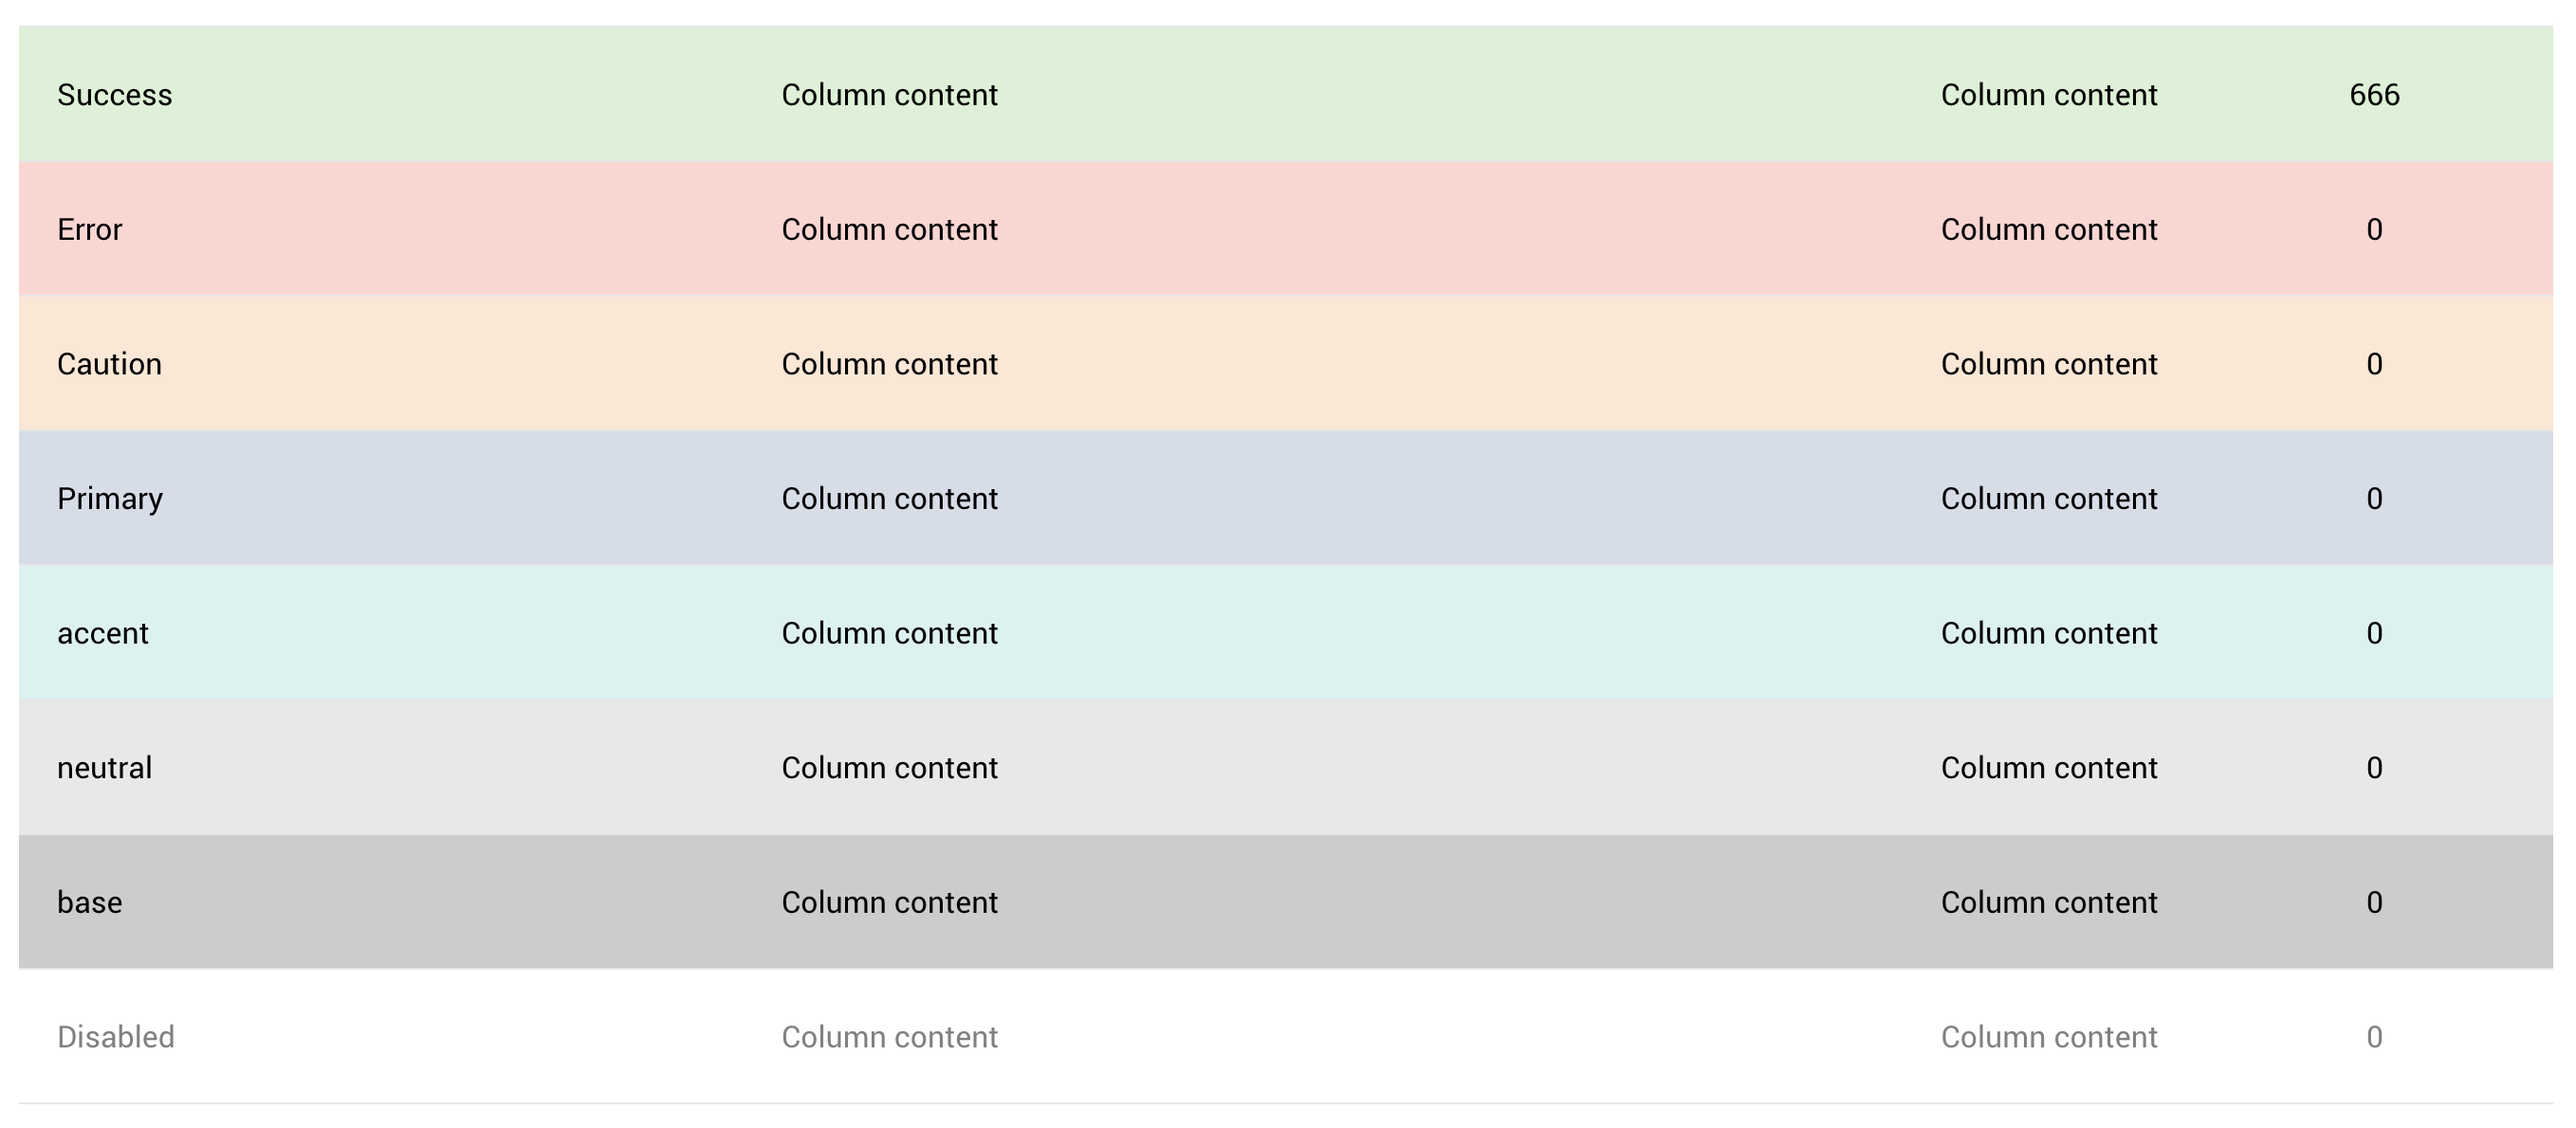
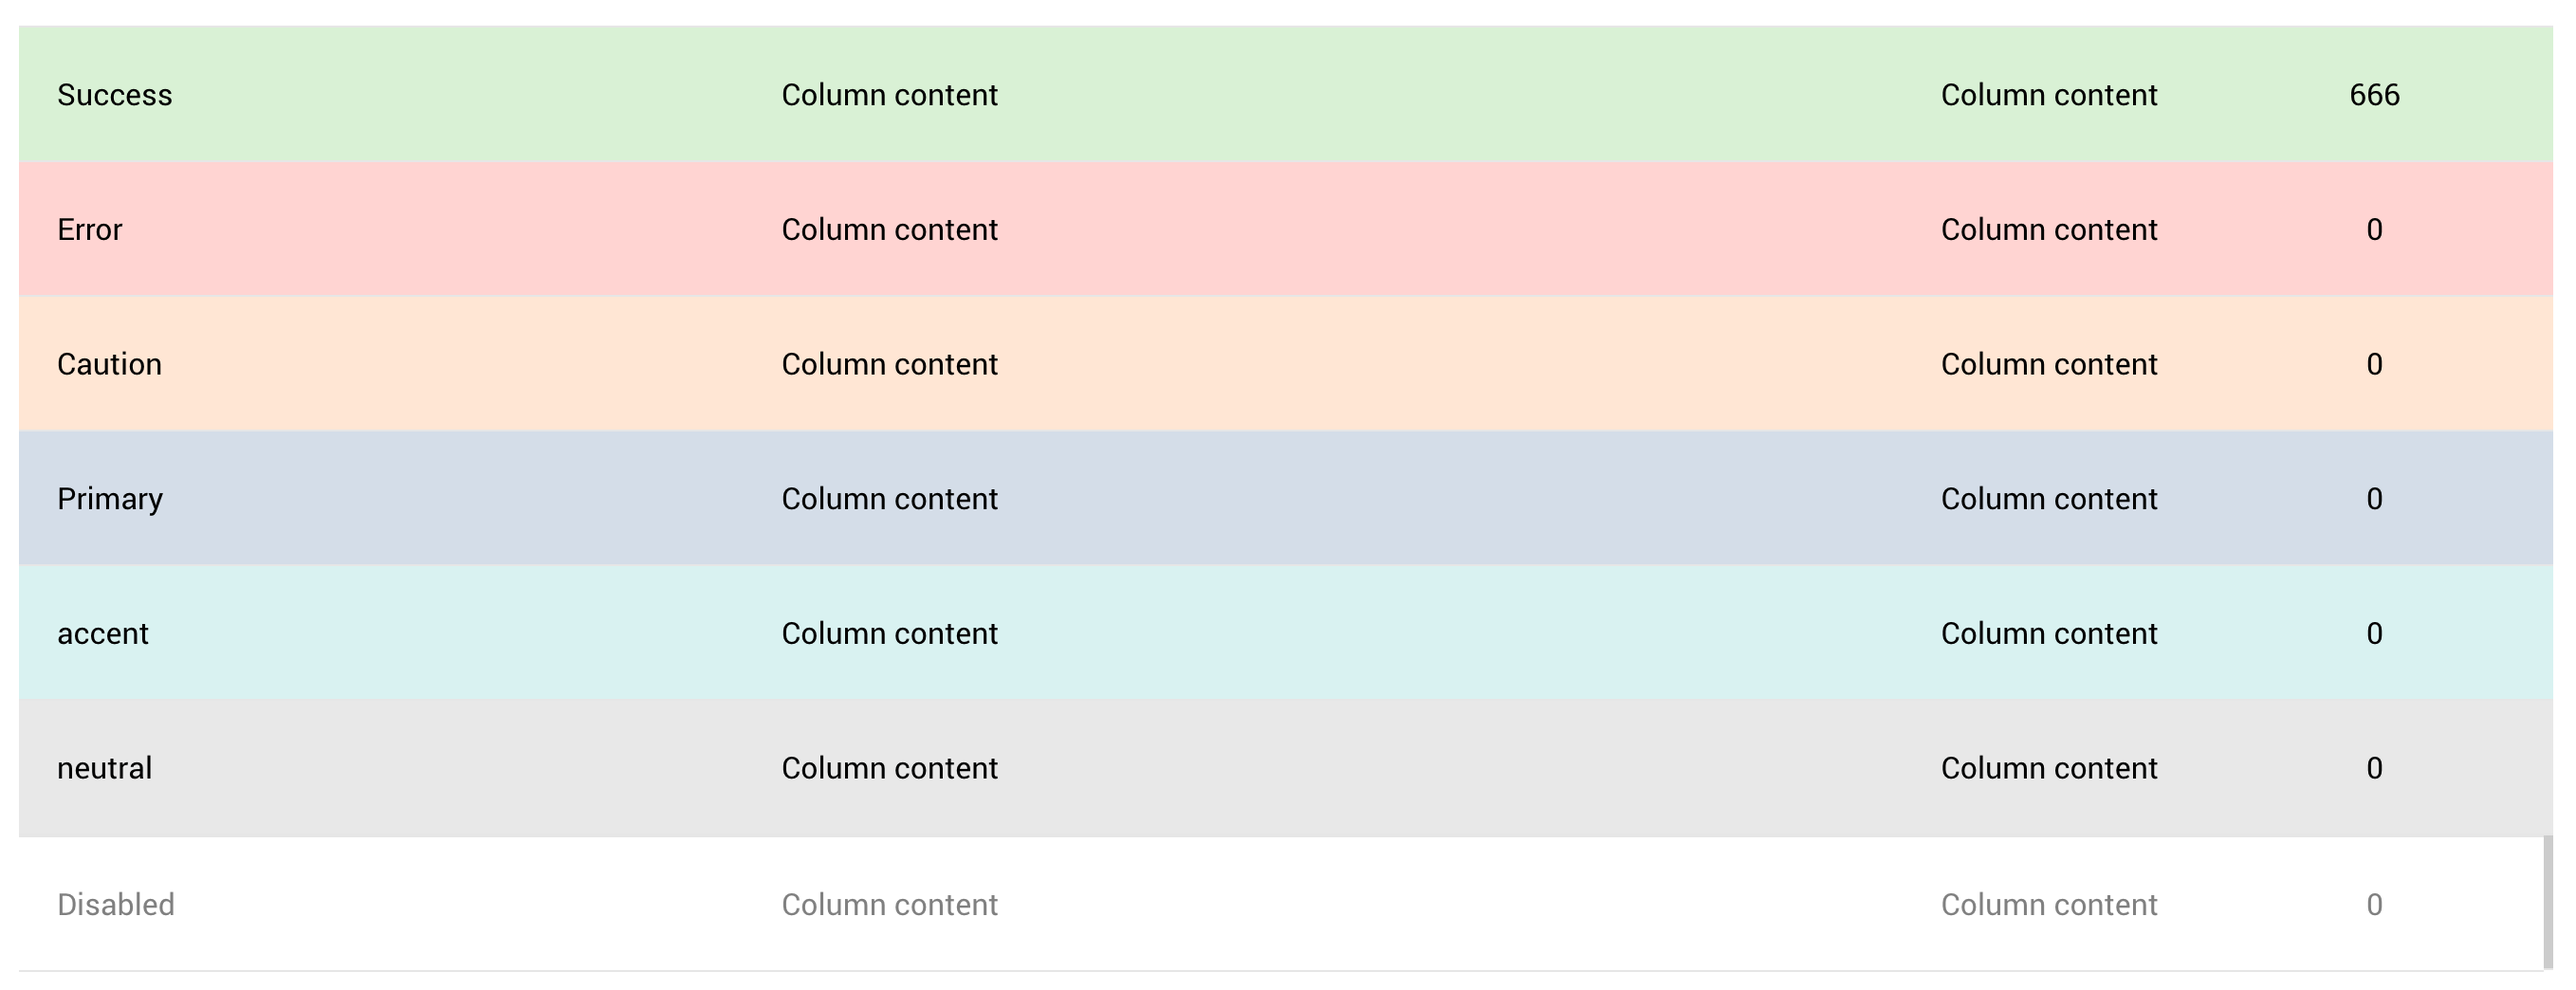
eee

diff --git a/scss/import/_internal-vars.scss b/scss/import/_internal-vars.scss
@@ -50,7 +50,7 @@ $calculated-symbol-caret-width:$symbol-caret-width;
 
 //for helpers
 $calculated-brand-color-declarations : (
-	base: $brand-color-base,
+	// base: $brand-color-base,
 	// background: $brand-color-background,
 	primary: $brand-color-primary,
 	accent: $brand-color-accent,

diff --git a/docs/sections/components/progress.md b/docs/sections/components/progress.md
@@ -13,7 +13,6 @@ A bitch that shows progress using **.progress** and  **.progress-bar**
 
 To color the progress, add `.progress-bar-[color-tag]` to `.progress-bar`
 
-*	**`.progress-bar-base`**
 *	**`.progress-bar-primary`**
 *	**`.progress-bar-accent`**
 *	**`.progress-bar-neutral`**
@@ -32,9 +31,6 @@ To color the progress, add `.progress-bar-[color-tag]` to `.progress-bar`
 	<div class="progress-bar" style="width: 10%"></div>
 </div>
 <br>
-<div class="progress">
-	<div class="progress-bar progress-bar-base" style="width: 46%"></div>
-</div>
 <br>
 <div class="progress">
 	<div class="progress-bar progress-bar-primary" style="width: 20%"></div>
@@ -87,7 +83,7 @@ the color can be customized by adding a background-color property to `.progress-
 
 ```html
 <div class="progress">
-	<div class="progress-bar progress-bar-base" style="background-color:pink;"></div>
+	<div class="progress-bar" style="background-color:pink;"></div>
 </div>
 ```
 

diff --git a/docs/sections/components/form.md b/docs/sections/components/form.md
@@ -507,7 +507,6 @@ To set the wrapper to a full width block, add **`.input-wrapper-block`**
 
 To add feedback color the `.input`, add `.input-[color-tag]`.
 
-*	**`.input-base`**
 *	**`.input-primary`**
 *	**`.input-accent`**
 *	**`.input-neutral`**
@@ -519,7 +518,6 @@ To add feedback color the `.input`, add `.input-[color-tag]`.
 
 To add feedback color the `.input-label`, add `.input-[color-tag]`.
 
-*	**`.label-base`**
 *	**`.label-primary`**
 *	**`.label-accent`**
 *	**`.label-neutral`**
@@ -533,7 +531,6 @@ To add feedback color the `.input-label`, add `.input-[color-tag]`.
 
 Adding the color class on `.input-group` styles both the `.input-label` and `.input` within it
 
-*	**`.input-wrapper-base`**
 *	**`.input-wrapper-primary`**
 *	**`.input-wrapper-accent`**
 *	**`.input-wrapper-neutral`**

diff --git a/docs/sections/scaffolding/helpers.md b/docs/sections/scaffolding/helpers.md
@@ -9,6 +9,7 @@ All influenced by [color declarations](../scaffolding/colors.md)
 #### Background
 
 *   **`.background-base` (Not to be confused with theme-color)**
+*   **`.background-background` (Not to be confused with theme-background)**
 *   **`.background-primary`**
 *   **`.background-accent`**
 *   **`.background-neutral`**
@@ -40,6 +41,7 @@ This will add gradient colors. By default, the gradient will be at angle 0deg, a
 #### Color
 
 *   **`.color-base` (Not to be confused with theme-color)**
+*   **`.color-background` (Not to be confused with theme-background)**
 *   **`.color-primary`**
 *   **`.color-accent`**
 *   **`.color-neutral`**

diff --git a/docs/sections/scaffolding/images.md b/docs/sections/scaffolding/images.md
@@ -72,7 +72,7 @@ These helper classes follow the same setup as [background and color helpers](../
 ##### Basic
 
 ###### Absolute values
-*   **`.['fill' or 'stroke']-base` (Not to be confused with theme-color)**
+
 *   **`.['fill' or 'stroke']-primary`**
 *   **`.['fill' or 'stroke']-accent`**
 *   **`.['fill' or 'stroke']-neutral`**

diff --git a/docs/sections/scaffolding/table.md b/docs/sections/scaffolding/table.md
@@ -43,7 +43,7 @@ Replicate a `<thead>`,`<tbody>`,`<tfoot>` or `<tr>` element
 
 ##### Colors 
 The folloing classes style table rows to [framework colors](../scaffolding/colors.md#color-tags)
-*	**.table-row-base**
+
 *	**.table-row-primary**
 *	**.table-row-accent**
 *	**.table-row-neutral**

diff --git a/docs/sections/components/legend.md b/docs/sections/components/legend.md
@@ -12,7 +12,6 @@ This is to display graph color legends or whatever has colors and needs some leg
 
 To color the legends, add `.legend-[color-tag]`
 
-*	**`.legend-base`**
 *	**`.legend-primary`**
 *	**`.legend-accent`**
 *	**`.legend-neutral`**

diff --git a/docs/sections/scaffolding/colors.md b/docs/sections/scaffolding/colors.md
@@ -99,7 +99,6 @@ Color and contrast palettes interchange on inverse theme by default. to see this
 
 ## Color tags
 These are valid color tags for all javascript arguments or data attributes
-*	`base`
 *	`primary`
 *	`accent`
 *	`neutral`

diff --git a/docs/sections/components/badge.md b/docs/sections/components/badge.md
@@ -11,7 +11,6 @@ This is to display.. a circle boi.. :)
 
 To color the badges, add `.badge-[color-tag]`
 
-*	**`.badge-base`**
 *	**`.badge-primary`**
 *	**`.badge-accent`**
 *	**`.badge-neutral`**

diff --git a/docs/sections/components/tag.md b/docs/sections/components/tag.md
@@ -11,7 +11,6 @@ This is to display a tag bitch :)
 
 To color the tags, add `.tag-[color-tag]`
 
-*	**`.tag-base`**
 *	**`.tag-primary`**
 *	**`.tag-accent`**
 *	**`.tag-neutral`**
